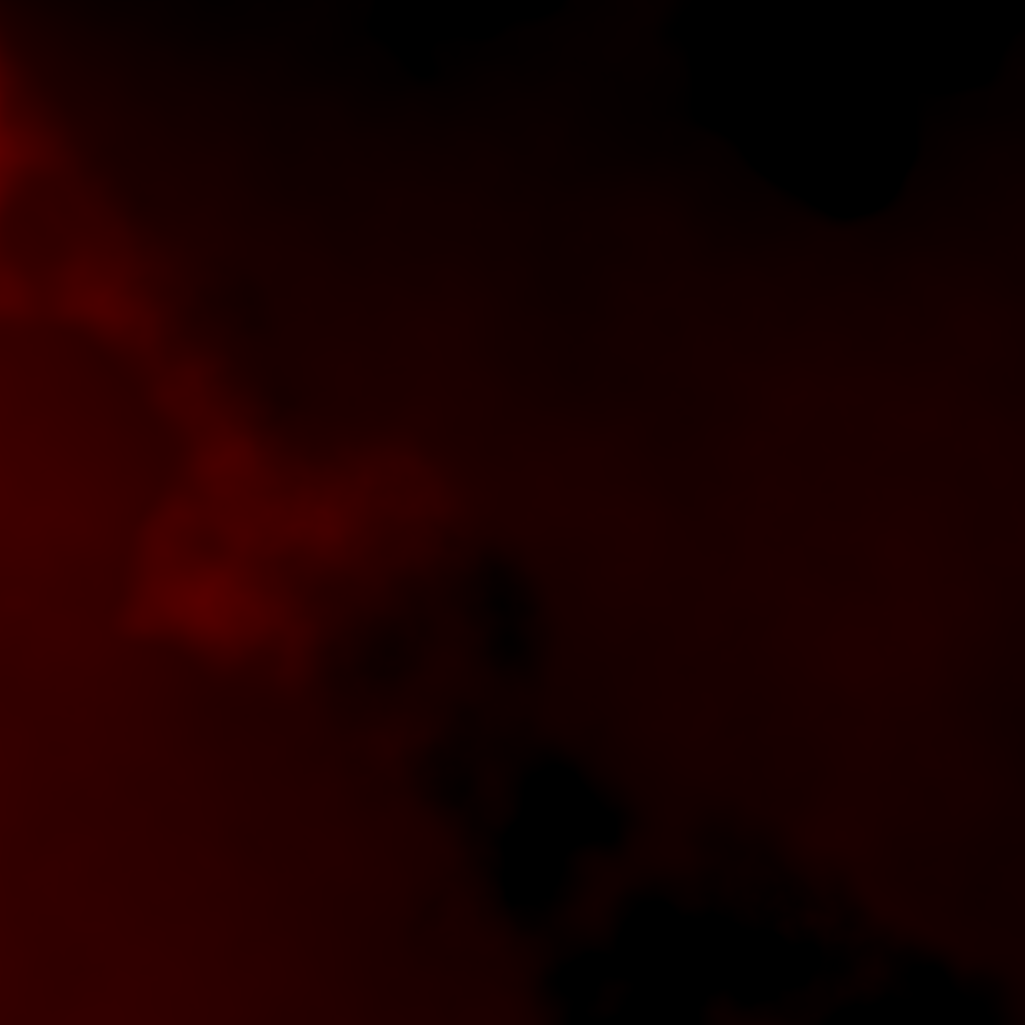
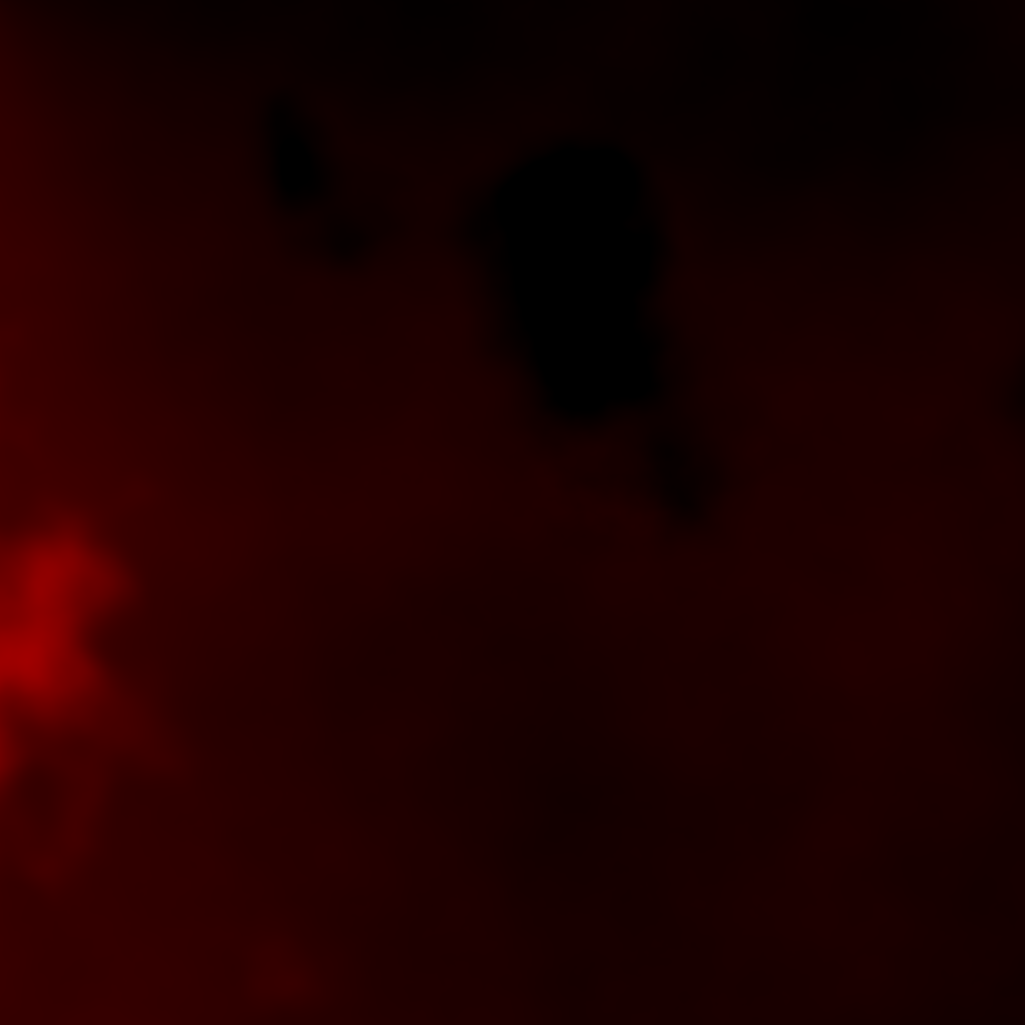
feat: New terrain configuration

diff --git a/game/core/src/main/kotlin/org/roldy/core/map/MapGenerator.kt b/game/core/src/main/kotlin/org/roldy/core/map/MapGenerator.kt
@@ -1,12 +1,12 @@
 package org.roldy.core.map
 
-import com.badlogic.gdx.Gdx
 import com.badlogic.gdx.graphics.Pixmap
-import com.badlogic.gdx.graphics.PixmapIO
 import com.badlogic.gdx.graphics.Texture
 import org.roldy.core.IVector2Int
 import org.roldy.core.SimplexNoise
 import org.roldy.core.biome.Biome
+import org.roldy.core.biome.BiomeData
+import org.roldy.core.configuration.HeightData
 import org.roldy.core.utils.repeat
 import org.roldy.core.x
 import kotlin.math.abs
@@ -23,28 +23,31 @@ class MapGenerator(
     val mapData: MapData,
     val biomes: List<Biome>,
     // Elevation settings
-    val elevation: HeightData = HeightData(9, 1f, .3f, 0.0002f),
-    val temperature: HeightData = HeightData(9, 1f, 0.61f, 0.001f),
-    val moisture: HeightData = HeightData(9, 1f, 0.756f, 0.0008f),
+    val elevation: HeightConfiguration = HeightConfiguration(9, 1f, .3f, 0.0002f),
+    val temperature: HeightConfiguration = HeightConfiguration(9, 1f, 0.81f, 0.0008f),
+    val moisture: HeightConfiguration = HeightConfiguration(9, 1f, 0.73f, 0.0008f),
+    val climate: HeightConfiguration = HeightConfiguration(4, 1f, 0.33f, 0.001f),
     // Simple terrain variety
-    val flatness: Float = 0.72f,  // 0-1: how much of map is flat
+    val flatness: Float = 0.70f,  // 0-1: how much of map is flat
     val mountainHeight: Float = 1f,       // How tall mountains are
-    val flatHeight: Float = 0.1f         // Base height of flat regions
+    val flatHeight: Float = 0.11f         // Base height of flat regions
 ) {
     private val seed = 1L//mapData.seed - 3
     private val noiseRandom = Random(seed)
 
-    data class HeightData(
+    data class HeightConfiguration(
         val octaves: Int,
         val amplitude: Float,
         val latitude: Float,
         val frequency: Float
     )
 
+    private val heightRegionNoise = SimplexNoise(noiseRandom.nextLong())
+
     private val elevationNoise = SimplexNoise(seed)
     private val temperatureNoise = SimplexNoise(noiseRandom.nextLong())
     private val moistureNoise = SimplexNoise(noiseRandom.nextLong())
-    private val regionNoise = SimplexNoise(noiseRandom.nextLong())
+    private val climateNoise = SimplexNoise(noiseRandom.nextLong())
 
     fun generate(): MapTerrainData {
         val noiseData = mutableMapOf<IVector2Int, NoiseData>()
@@ -54,57 +57,16 @@ class MapGenerator(
             val elevation = elevation.getData(elevationNoise, x, y)
             val temperature = temperature.getData(temperatureNoise, x, y)
             val moisture = moisture.getData(moistureNoise, x, y)
+            val climate = climate.getData(climateNoise, x, y)
 
             val blendElevation = blendRegions(x, y, elevation)
-            noiseData[x x y] = NoiseData(x, y, blendElevation, temperature, moisture)
+            noiseData[x x y] = NoiseData(x, y, blendElevation, temperature, moisture, climate)
         }
-        noiseData.saveHeightMaps()
         return MapTerrainData(
             noiseData.generateSplatMaps(32),
             noiseData
         )
     }
-
-    private fun Map<IVector2Int, NoiseData>.saveHeightMaps() {
-        val width = keys.maxOf { it.x } + 1
-        val height = keys.maxOf { it.y } + 1
-        val elevationPixMap = Pixmap(width, height, Pixmap.Format.RGBA8888)
-        val moisturePixMap = Pixmap(width, height, Pixmap.Format.RGBA8888)
-        val temperaturePixMap = Pixmap(width, height, Pixmap.Format.RGBA8888)
-        val combinedPixMap = Pixmap(width, height, Pixmap.Format.RGBA8888)
-        fun Pixmap.draw(pos: IVector2Int, color: Int) {
-            drawPixel(pos.x, pos.y, color)
-        }
-
-        fun Float.color(value: Int) =
-            (value * this).toInt().coerceIn(0, value)
-
-        fun color(
-            rf: Float = 0f,
-            gf: Float = 0f,
-            bf: Float = 0f,
-            r: Int = 255,
-            g: Int = r,
-            b: Int = g
-        ): Int {
-            val r = rf.color(r)
-            val g = gf.color(g)
-            val b = bf.color(b)
-            val a = 255
-            return (r shl 24) or (g shl 16) or (b shl 8) or a
-        }
-        forEach { (pos, data) ->
-            elevationPixMap.draw(pos, color(rf = data.elevation))
-            moisturePixMap.draw(pos, color(rf = data.moisture))
-            temperaturePixMap.draw(pos, color(rf = data.temperature))
-            combinedPixMap.draw(pos, color(rf = data.temperature, gf = 0f, bf = data.moisture))
-        }
-        PixmapIO.writePNG(Gdx.files.local("resources/pixmap/elevation.png"), elevationPixMap)
-        PixmapIO.writePNG(Gdx.files.local("resources/pixmap/moisture.png"), moisturePixMap)
-        PixmapIO.writePNG(Gdx.files.local("resources/pixmap/temperature.png"), temperaturePixMap)
-        PixmapIO.writePNG(Gdx.files.local("resources/pixmap/combined.png"), combinedPixMap)
-    }
-
 
     private fun Map<IVector2Int, NoiseData>.generateSplatMaps(materialCount: Int): List<Texture> {
         val texCount = 4 // textures count per splatmap, 4 textures, 8 splatmaps (4*8=32) total 32 textures
@@ -148,28 +110,50 @@ class MapGenerator(
         val e = data.elevation
         val t = data.temperature
         val m = data.moisture
+        val c = data.climate
+        fun <T : HeightData> range(
+            biome: T,
+            terrain: T,
+            closedRange: T.() -> ClosedRange<Float>
+        ): ClosedRange<Float> =
+            maxOf(biome.closedRange().start, terrain.closedRange().start)..minOf(
+                biome.closedRange().endInclusive,
+                terrain.closedRange().endInclusive
+            )
 
+        val terrains = mutableListOf<BiomeData.TerrainData>()
         for (b in biomes) {
             val biome = b.data
             if (e !in biome.elevation) continue
             if (t !in biome.temperature) continue
             if (m !in biome.moisture) continue
+            if (c !in biome.climate) continue
             for (terrain in biome.terrains) {
-                val eMin = maxOf(biome.elevation.start, terrain.elevation.start)
-                val eMax = minOf(biome.elevation.endInclusive, terrain.elevation.endInclusive)
-                val tMin = maxOf(biome.temperature.start, terrain.temperature.start)
-                val tMax = minOf(biome.temperature.endInclusive, terrain.temperature.endInclusive)
-                val mMin = maxOf(biome.moisture.start, terrain.moisture.start)
-                val mMax = minOf(biome.moisture.endInclusive, terrain.moisture.endInclusive)
 
-                if (eMin > eMax || tMin > tMax || mMin > mMax) continue
-                if (e < eMin || e > eMax) continue
-                if (t < tMin || t > tMax) continue
-                if (m < mMin || m > mMax) continue
+                val elevation = range(biome, terrain) { elevation }
+                val moisture = range(biome, terrain) { moisture }
+                val temperature = range(biome, terrain) { temperature }
+                val climate = range(biome, terrain) { climate }
+
+                if (e !in elevation) continue
+                if (t !in temperature) continue
+                if (m !in moisture) continue
+                if (c !in climate) continue
+                terrains.add(terrain)
                 w[terrain.index] = 1f
                 return w
             }
-        }  // Fallback
+        }
+        //test blending
+        val mainTexture = terrains.first()
+        val secondaryTexture = terrains.getOrNull(1)
+        w[mainTexture.index] = 1f
+
+        if (secondaryTexture != null) {
+            w[mainTexture.index] = 0.8f
+            w[secondaryTexture.index] = 0.2f
+        }
+
         return w
     }
 
@@ -195,8 +179,8 @@ class MapGenerator(
      */
     private fun getRegionMask(x: Int, y: Int): Float {
         // Large scale noise for regions
-        var value = regionNoise(x * 0.001f, y * 0.001f)
-        value += regionNoise(x * 0.002f, y * 0.002f) * 0.5f
+        var value = heightRegionNoise(x * 0.001f, y * 0.001f)
+        value += heightRegionNoise(x * 0.002f, y * 0.002f) * 0.5f
 
         // Normalize to 0-1
         value = (value / 1.5f + 1f) / 2f
@@ -209,7 +193,7 @@ class MapGenerator(
         return smoothstep(threshold - 0.15f, threshold + 0.15f, value)
     }
 
-    private fun HeightData.getData(noise: SimplexNoise, x: Int, y: Int): Float {
+    private fun HeightConfiguration.getData(noise: SimplexNoise, x: Int, y: Int): Float {
         var total = 0.0f
         var frequency = frequency
         var amplitude = amplitude

diff --git a/game/core/src/main/kotlin/org/roldy/core/biome/BiomeData.kt b/game/core/src/main/kotlin/org/roldy/core/biome/BiomeData.kt
@@ -19,6 +19,8 @@ data class BiomeData(
     override val temperature: ClosedFloatingPointRange<Float> = minValue..maxValue,
     @Serializable(ClosedFloatingPointRangeSerializer::class)
     override val moisture: ClosedFloatingPointRange<Float> = minValue..maxValue,
+    @Serializable(ClosedFloatingPointRangeSerializer::class)
+    override val climate: ClosedFloatingPointRange<Float> = minValue..maxValue,
     @Serializable(G2DColorSerializer::class)
     val color: Color,
     val walkCost: Float,
@@ -37,6 +39,8 @@ data class BiomeData(
         override val temperature: ClosedFloatingPointRange<Float> = minValue..maxValue,
         @Serializable(ClosedFloatingPointRangeSerializer::class)
         override val moisture: ClosedFloatingPointRange<Float> = minValue..maxValue,
+        @Serializable(ClosedFloatingPointRangeSerializer::class)
+        override val climate: ClosedFloatingPointRange<Float> = minValue..maxValue,
     ) : HeightData
 
     @Serializable
@@ -50,6 +54,8 @@ data class BiomeData(
         override val temperature: ClosedFloatingPointRange<Float> = minValue..maxValue,
         @Serializable(ClosedFloatingPointRangeSerializer::class)
         override val moisture: ClosedFloatingPointRange<Float> = minValue..maxValue,
+        @Serializable(ClosedFloatingPointRangeSerializer::class)
+        override val climate: ClosedFloatingPointRange<Float> = minValue..maxValue,
         val minRadius: Int = 0,
         val spawnChance: Float = 1f,
         val walkCost: Float = 1f

diff --git a/game/core/src/main/kotlin/org/roldy/core/configuration/HeightData.kt b/game/core/src/main/kotlin/org/roldy/core/configuration/HeightData.kt
@@ -19,6 +19,7 @@ interface HeightData {
     val elevation: ClosedFloatingPointRange<Float>
     val temperature: ClosedFloatingPointRange<Float>
     val moisture: ClosedFloatingPointRange<Float>
+    val climate: ClosedFloatingPointRange<Float>
 }
 
 infix fun FloatComparison.match(value: Float): Boolean =
@@ -28,12 +29,13 @@ infix fun FloatComparison.match(value: Float): Boolean =
     }
 
 infix fun HeightData.match(noiseData: NoiseData) =
-    match(noiseData.temperature, noiseData.elevation, noiseData.moisture)
+    match(noiseData.temperature, noiseData.elevation, noiseData.moisture, noiseData.climate)
 
-fun HeightData.match(temp: Float, el: Float, moist: Float) =
+fun HeightData.match(temp: Float, el: Float, moist: Float, clim: Float) =
     el in elevation &&
             temp in temperature &&
-            moist in moisture
+            moist in moisture &&
+            clim in climate
 
 fun HeightData.match(temp: Float, moist: Float) =
     temp in temperature &&

diff --git a/utils/src/main/kotlin/cz/roldy/utils/AtlasBuilder.kt b/utils/src/main/kotlin/cz/roldy/utils/AtlasBuilder.kt
@@ -173,7 +173,7 @@ object AtlasBuilder {
     @JvmStatic
     fun main(args: Array<String>) {
         val inputDir = File("resources/terrain/synty/combined")   // change this
-        val outputFile = File("assets/terrain/terrain2.png")
+        val outputFile = File("assets/terrain/Tileset.png")
 
         buildAtlas(inputDir, outputFile)
     }

diff --git a/game/core/src/main/kotlin/org/roldy/core/map/NoiseData.kt b/game/core/src/main/kotlin/org/roldy/core/map/NoiseData.kt
@@ -8,5 +8,6 @@ data class NoiseData(
     val y: Int,
     val elevation: Float,
     val temperature: Float,
-    val moisture: Float
+    val moisture: Float,
+    val climate: Float
 )
